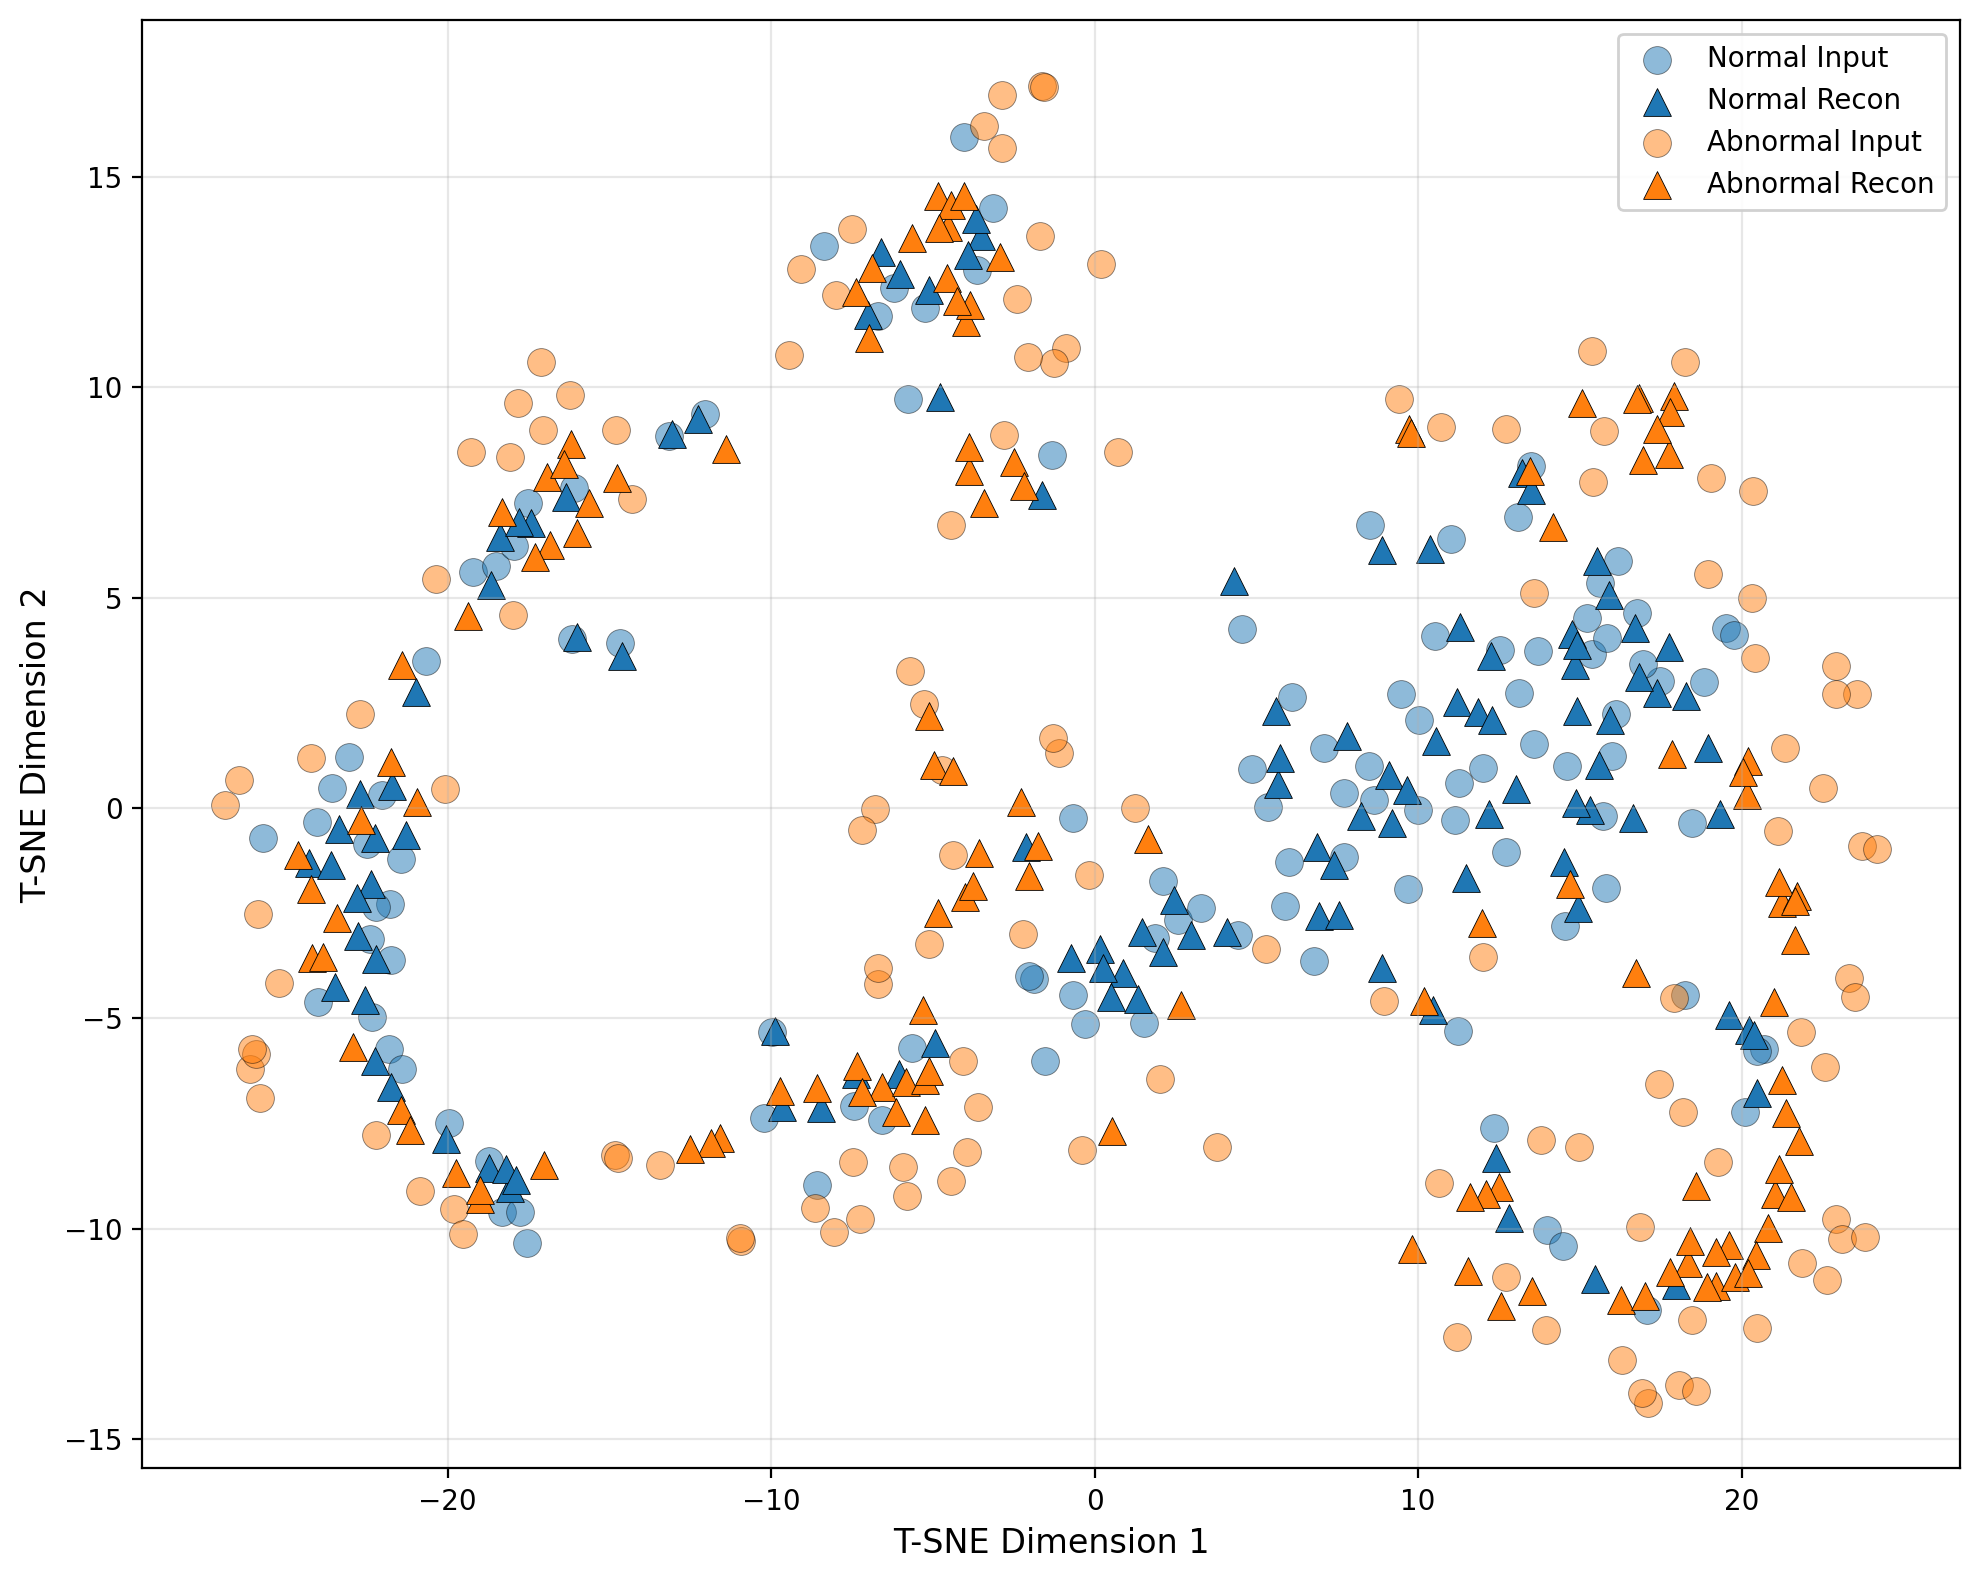
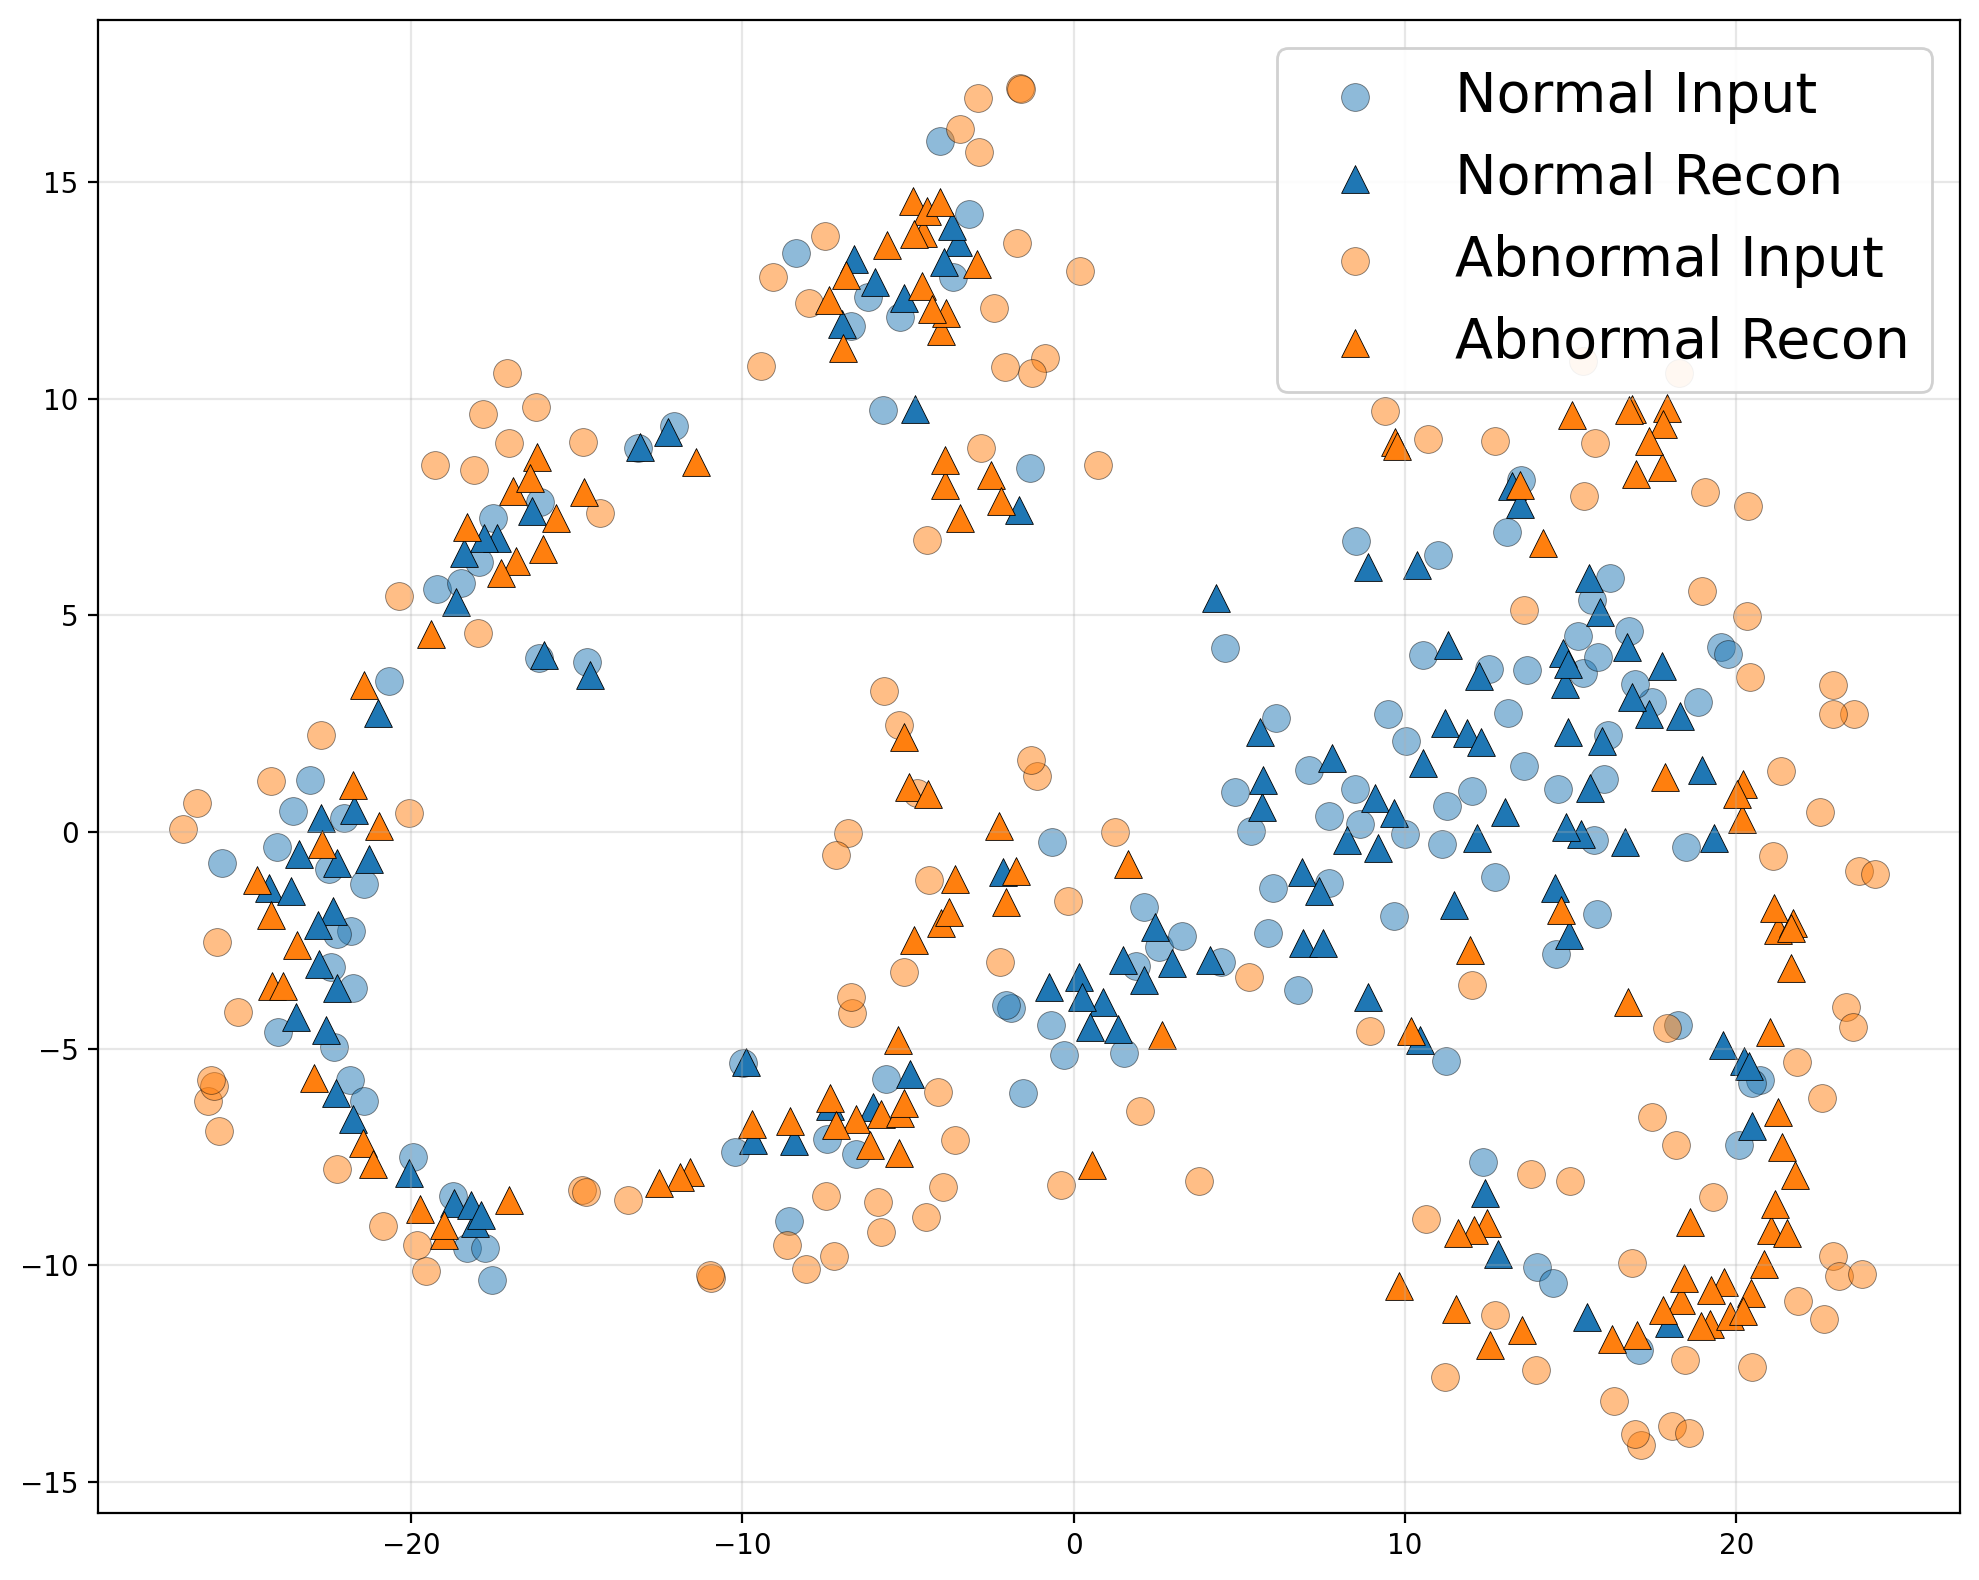
m

diff --git a/models/MemPAE/Analyzer.py b/models/MemPAE/Analyzer.py
@@ -3125,9 +3125,9 @@ class Analyzer(Trainer):
                         marker=marker, label=label, edgecolors='black', linewidth=0.3)
         
         # Customize plot
-        ax.set_xlabel('T-SNE Dimension 1', fontsize=12)
-        ax.set_ylabel('T-SNE Dimension 2', fontsize=12)
-        ax.legend(loc='best', fontsize=10, framealpha=0.9)
+        # ax.set_xlabel('T-SNE Dimension 1', fontsize=12)
+        # ax.set_ylabel('T-SNE Dimension 2', fontsize=12)
+        ax.legend(loc='best', fontsize=20, framealpha=0.9)
         ax.grid(True, alpha=0.3)
         
         # Simple title with only dataset name
